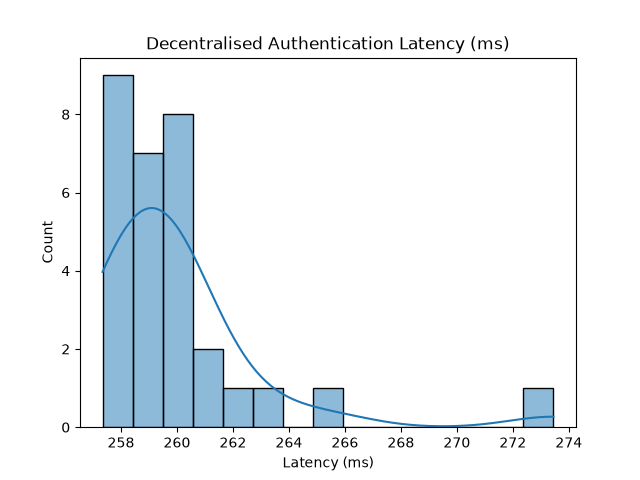
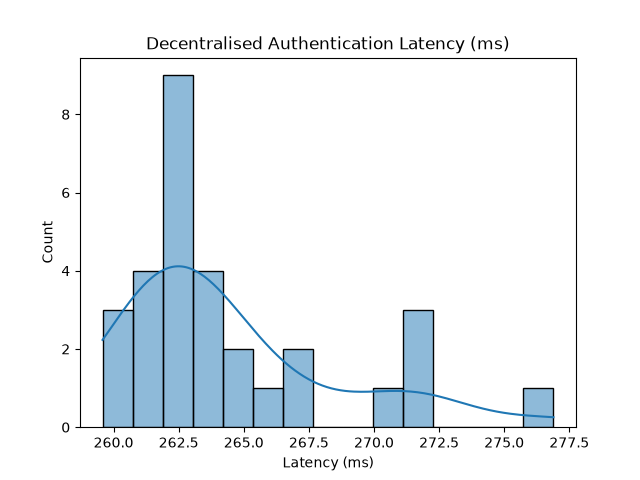
database changed to db 3

diff --git a/feature_extractor.py b/feature_extractor.py
@@ -1,4 +1,6 @@
 import hashlib
+import json
+import os
 import cv2
 import fingerprint_feature_extractor
 
@@ -14,9 +16,32 @@ def extract_fixed_vector(image_path, vector_length=512):
     terminations, bifurcations = fingerprint_feature_extractor.extract_minutiae_features(img)
 
     # 2. Convert the minutiae set into a stable string representation
-    #    (ensure reproducibility: sort coordinates)
-    term_str = str(terminations)
-    bif_str = str(bifurcations)
+    # 2.1 Convert MinutiaeFeature objects to a sortable representation (tuples)
+    term_tuples = [(m.locX, m.locY, m.Orientation, m.Type) for m in terminations]
+    bif_tuples = [(m.locX, m.locY, m.Orientation, m.Type) for m in bifurcations]
+
+    features_file = 'fingerprint_features.json'
+    features_entry = {
+        'image': image_path,
+        'terminations': len(terminations),
+        'bifurcations': len(bifurcations)
+    }
+    if os.path.exists(features_file):
+        with open(features_file, 'r', encoding='utf-8') as f:
+            try:
+                existing = json.load(f)
+            except ValueError:
+                existing = []
+    else:
+        existing = []
+
+    existing.append(features_entry)
+    with open(features_file, 'w', encoding='utf-8') as f:
+        json.dump(existing, f, indent=2)
+
+    # 2.2 (ensure reproducibility: sort coordinates)
+    term_str = str(sorted(term_tuples))
+    bif_str = str(sorted(bif_tuples))
     combined = f"{term_str}{bif_str}".encode('utf-8')
 
     # 3. Hash to fixed length

diff --git a/verify_client.py b/verify_client.py
@@ -6,9 +6,9 @@ from feature_extractor import extract_fixed_vector
 NODE_URLS = ["http://localhost:5001", "http://localhost:5002", "http://localhost:5003"]
 USED_NONCES = set()
 
-def verify_user(user_id, probe_vector):
-    nonce = secrets.token_hex(16)
-    timestamp = int(time.time())
+def verify_user(user_id, probe_vector, fixed_nonce=None, fixed_timestamp=None):
+    nonce = fixed_nonce if fixed_nonce is not None else secrets.token_hex(16)
+    timestamp = fixed_timestamp if fixed_timestamp is not None else int(time.time())
     if nonce in USED_NONCES:
         return False, "Replay: duplicate nonce"
     if abs(timestamp - int(time.time())) > 5:
@@ -31,6 +31,7 @@ def verify_user(user_id, probe_vector):
     secret = combine(shares[:2])
     xor_data = bytes(a ^ b for a, b in zip(secret, probe_vector))
     h_calc = hashlib.sha256(xor_data).digest().hex()
+    print(f"Verification for {user_id}: calculated hash {h_calc}, stored hash {stored_hash}")
     return (h_calc == stored_hash), "Authenticated" if h_calc == stored_hash else "Mismatch"
 
 def test_verification(folder, limit=10):

diff --git a/enroll_client.py b/enroll_client.py
@@ -8,16 +8,17 @@ def enroll_user(user_id, fingerprint_vector):
     secret = secrets.token_bytes(32)
     xor_data = bytes(a ^ b for a, b in zip(secret, fingerprint_vector))
     h = hashlib.sha256(xor_data).digest().hex()
-    shares = split(secret, num_of_shares=3, threshold=2)   # returns list of bytearrays
+    shares = split(secret, 3, 2)   # returns list of bytearrays
 
-    for i, share_bytes in enumerate(shares):
-        payload = {
-            "user_id": user_id,
-            "share_hex": share_bytes.hex(),
-            "hash_hex": h
-        }
-        resp = requests.post(f"{NODE_URLS[i]}/enroll_share", json=payload, timeout=5)
-        resp.raise_for_status()
+    # for i, share_bytes in enumerate(shares):
+    #     payload = {
+    #         "user_id": user_id,
+    #         "share_index": i,
+    #         "share_hex": share_bytes.hex(),
+    #         "hash_hex": h
+    #     }
+    #     resp = requests.post(f"{NODE_URLS[i]}/enroll_share", json=payload, timeout=5)
+    #     resp.raise_for_status()
     print(f"Enrolled {user_id}")
     return True
 

diff --git a/evaluate.py b/evaluate.py
@@ -1,5 +1,5 @@
 import os
-import time, requests, statistics, subprocess, pickle
+import time, requests, statistics, secrets, pickle
 from feature_extractor import extract_fixed_vector
 from verify_client import verify_user
 
@@ -30,9 +30,11 @@ def test_centralised_latency(central_url, user_id, fingerprint_hex):
 
 # 3. Replay attack test
 def test_replay_attack():
+    nonce = secrets.token_hex(16)
+    timestamp = int(time.time())
     vec = extract_fixed_vector("./fvc2002/101_1.tif")
-    ok1, _ = verify_user("user_0", vec)
-    ok2, msg2 = verify_user("user_0", vec)   # same nonce – should fail
+    ok1, _ = verify_user("user_0", vec, fixed_nonce=nonce, fixed_timestamp=timestamp)
+    ok2, msg2 = verify_user("user_0", vec, fixed_nonce=nonce, fixed_timestamp=timestamp)   # same nonce – should fail
     print(f"Replay test: first={ok1}, second={ok2} -> {'PASS' if ok1 and not ok2 else 'FAIL'}")
     return ok1 and not ok2
 

diff --git a/pos-node/app.py b/pos-node/app.py
@@ -42,5 +42,10 @@ def verify_get():
 def health():
     return "OK"
 
+@app.route('/debug/shard_store', methods=['GET'])
+def debug_shard_store():
+    """Debug endpoint to view the stored shares (not for production use)."""
+    return jsonify(shard_store)
+
 if __name__ == '__main__':
     app.run(host='0.0.0.0', port=5000)
